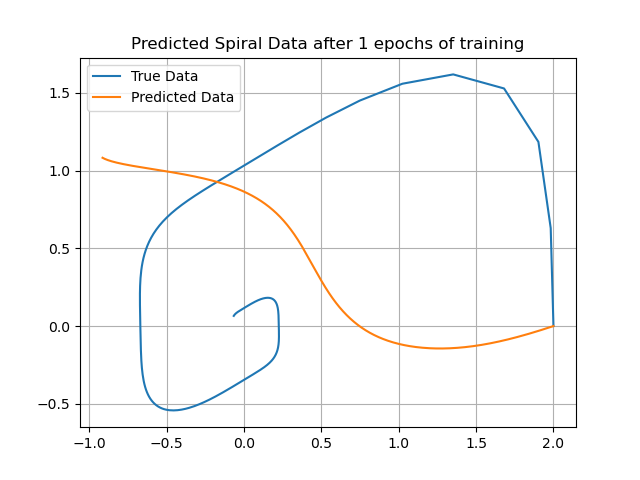
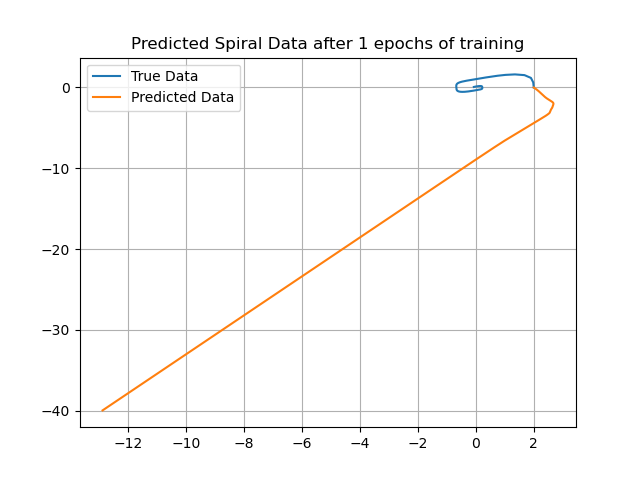
fix the adjoint

diff --git a/project_code/ODE_solvers.py b/project_code/ODE_solvers.py
@@ -49,6 +49,7 @@ class ODESolver(nn.Module):
                 sol.append(y_next)
                 for j in range(len(y)):
                     y[j][i] = y_next[j]
+            print(sol[-1][-1])
             return sol
         # For now use this for forward pass for output
         else:
@@ -75,7 +76,6 @@ class ODESolver(nn.Module):
 def adjoint_solve(func, z_final, t, model_params, dLdz_T, dt):
     # Initial augmented state s_0
     s_0 = (z_final, dLdz_T) + tuple(torch.zeros(param.shape, dtype = param.dtype, device = param.device) for param in model_params)
-
     # Define the augmented dynamics as per the algorithm, accept the current time t and the augmented state s
     def aug_dynamics(t, s):
         # Get the current state and the adjoint
@@ -104,15 +104,11 @@ def adjoint_solve(func, z_final, t, model_params, dLdz_T, dt):
     # Solve the augmented ODE backward in time using the ODESolver
 
     s_T = solver.forward(s_0, t_reversed)
-    
     # Extract the final augmented state
-    _, adj_z_T, *adj_params_T = s_T
-    
-    adj_z_T = adj_z_T[-1]
-    for i, param in enumerate(adj_params_T):
-        adj_params_T[i] = param[-1]
-
+    _, adj_z_T, *adj_params_T = s_T[0]
+ 
     # Extract the gradients from the final augmented state
     dLdz_0 = adj_z_T
     dLdp = [param.view_as(model_param) for param, model_param in zip(adj_params_T, model_params)]
+    # print(dLdp)
     return dLdz_0, dLdp

diff --git a/project_code/experiments.py b/project_code/experiments.py
@@ -171,8 +171,9 @@ def experiment3(dev_used, ODEFunc, in_dim, num_epochs, lr, batch_size, num_point
         # Reset the optimizer gradients to 0 befroe any backprop
         optimizer.zero_grad()
         # Get a batch of times and y values to test for
-        batch_t = list(sorted(t_new[np.random.choice(t_new.shape[0], size = batch_size, replace = False)]))
-        batch_y = true_y[batch_t]
+        # batch_t = list(sorted(t_new[np.random.choice(t_new.shape[0], size = batch_size, replace = False)]))
+        batch_t = t_new
+        batch_y = true_y
         # Get the predict for these times starting at the ground truth (since IVP, we always have y0)
         pred_y = solver(true_y0, batch_t)
         
@@ -190,7 +191,6 @@ def experiment3(dev_used, ODEFunc, in_dim, num_epochs, lr, batch_size, num_point
             # Calculate the gradients using adjoint method
             dt = np.abs(batch_t[t + 1] - batch_t[t])
             dLdz_T, dLdp = adjoint_solve(ode_func, pred_y[t], batch_t[t: t + 2], tuple(ode_func.parameters()), dLdz_T, dt)
-
             # Accumulate gradients for each model parameter
             for param, grad in zip(ode_func.parameters(), dLdp):
                 param.grad = param.grad + grad if param.grad is not None else grad
